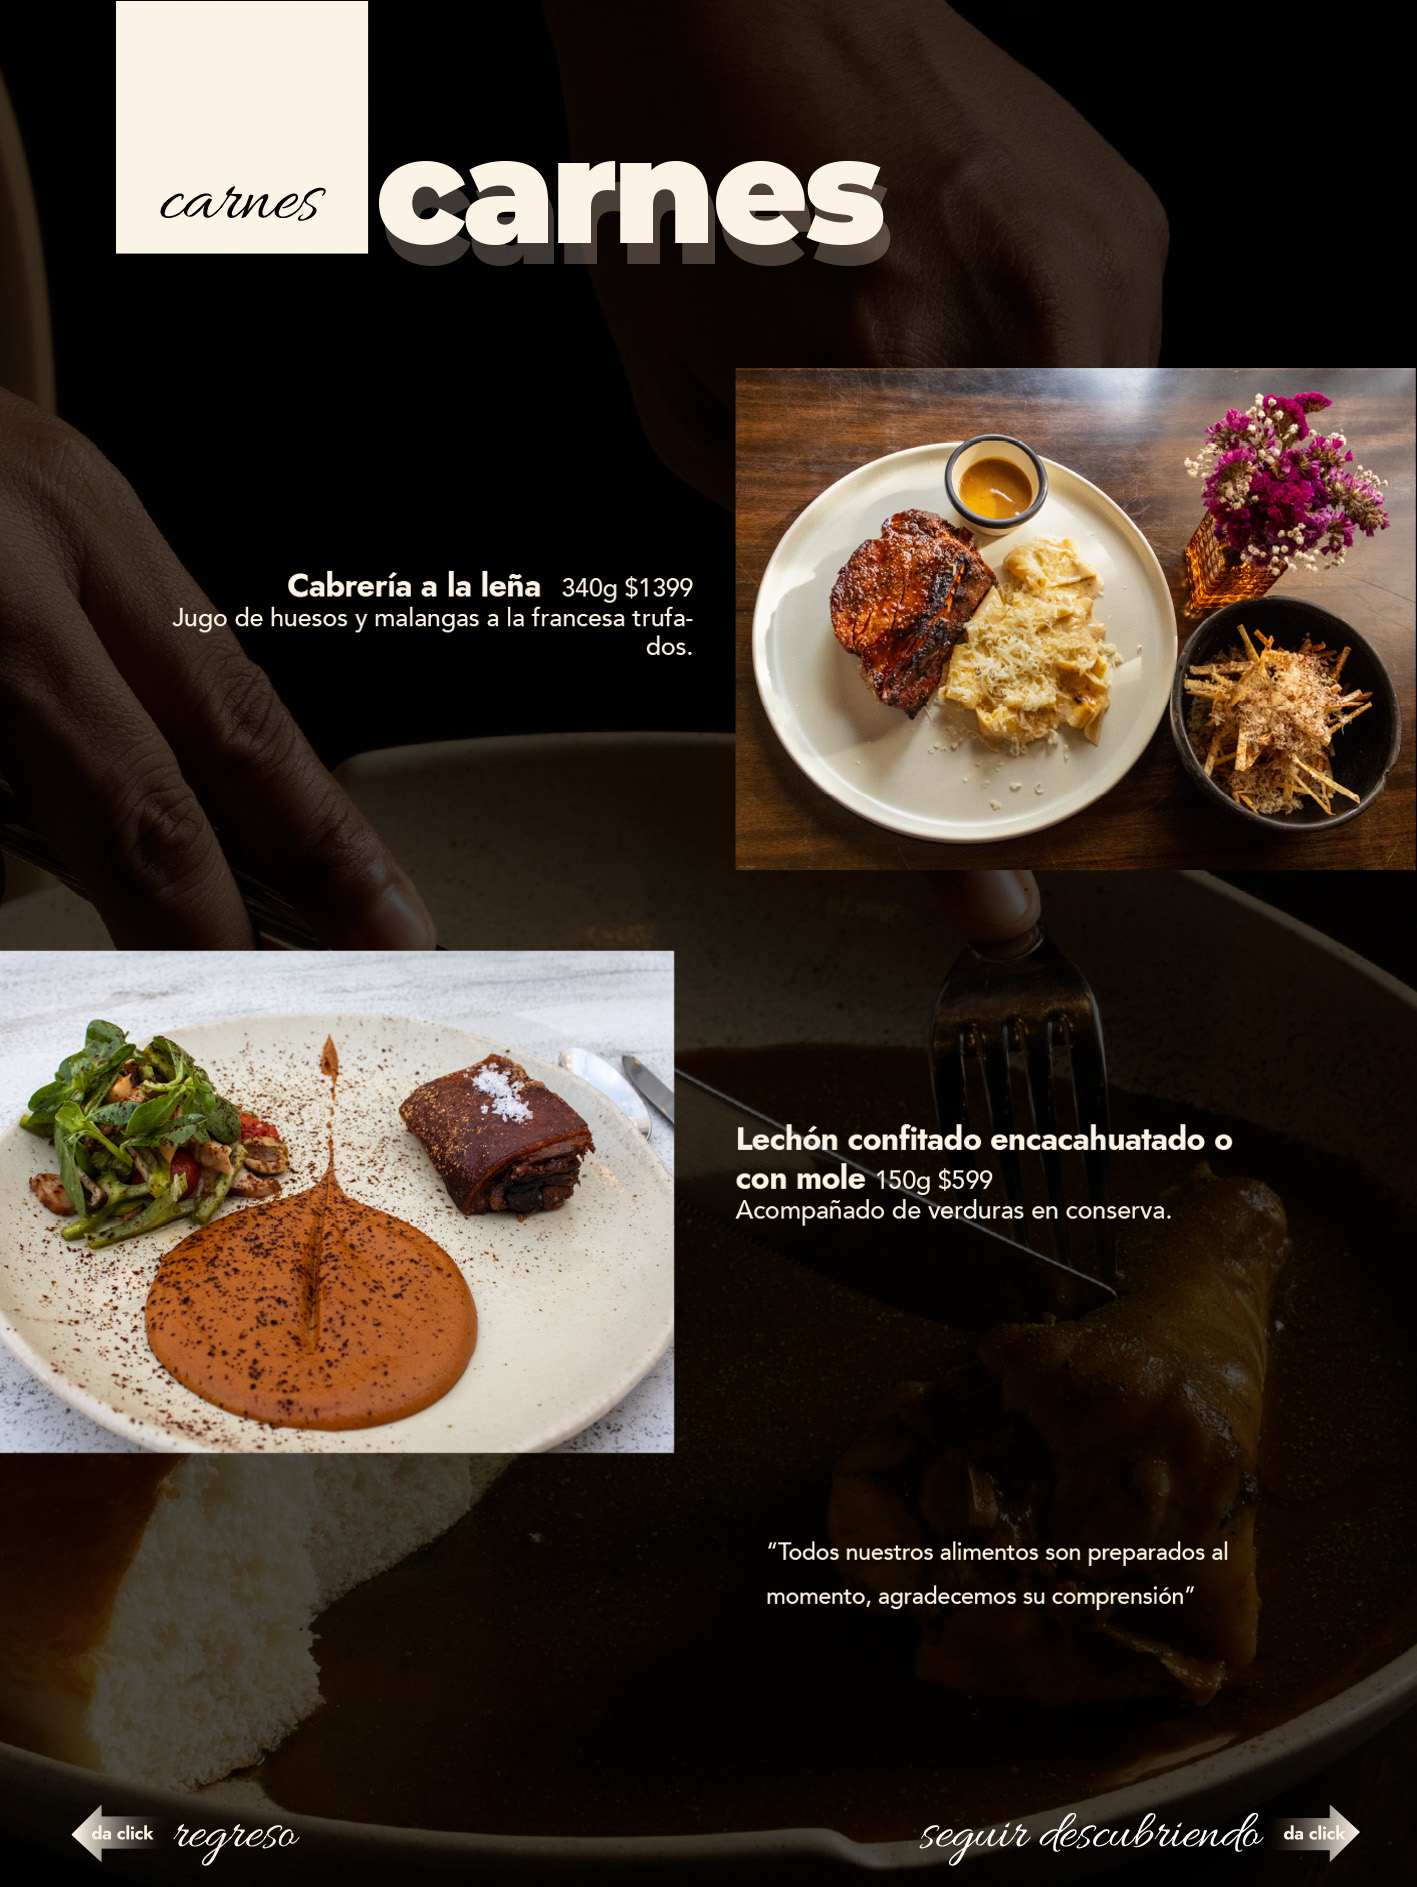
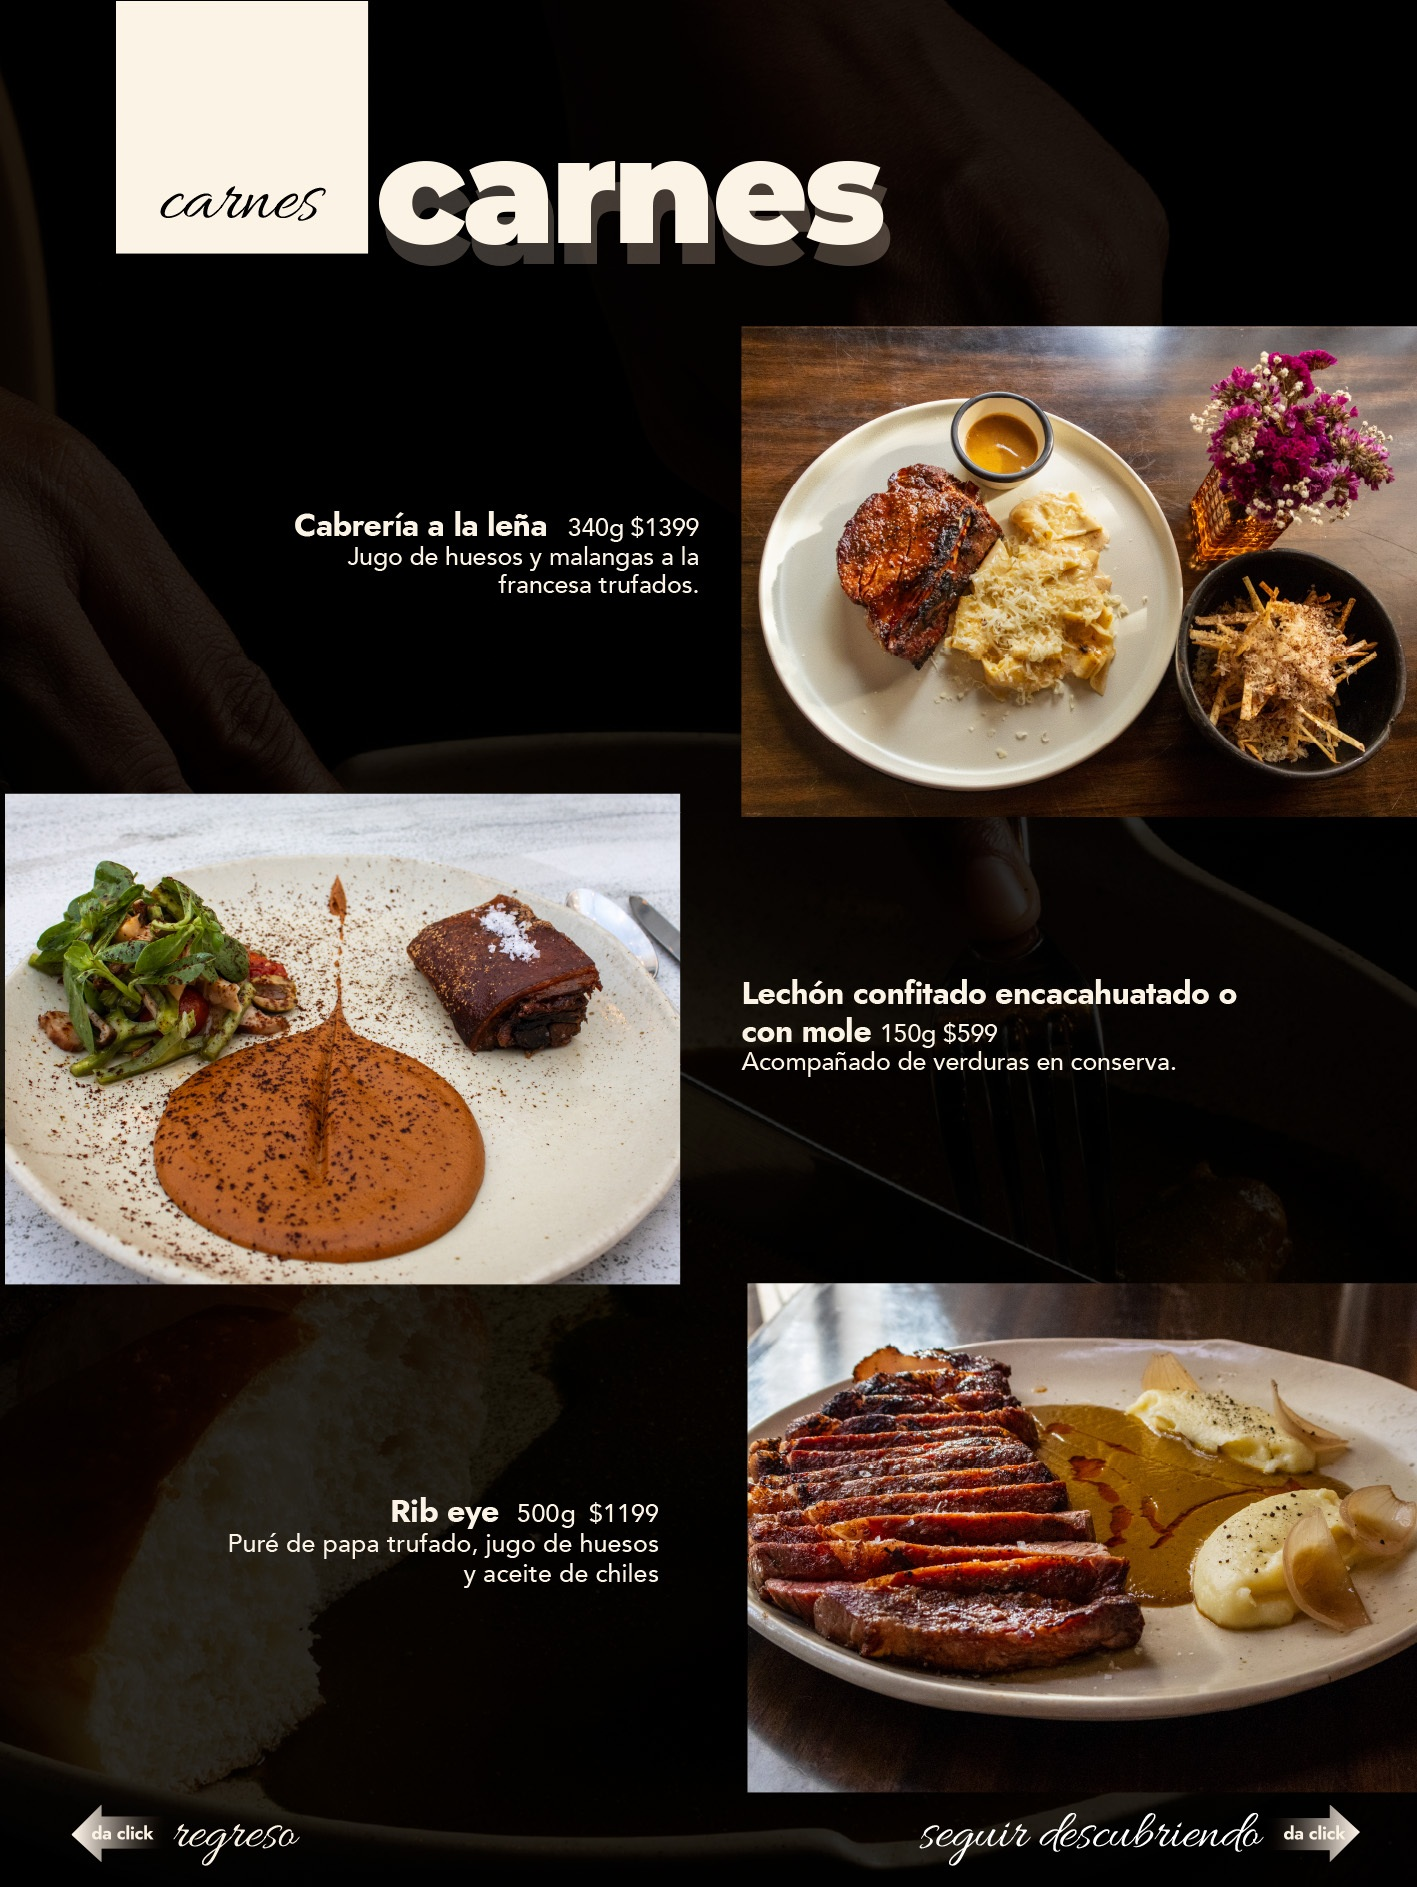
Agregar Menu degustacion

diff --git a/Menu/indexDegustacion.html b/Menu/indexDegustacion.html
@@ -1,0 +1,94 @@
+<!DOCTYPE html>
+<html lang="es">
+<head>
+  <meta charset="UTF-8">
+  <title>Menú Namik</title>
+  <link rel="stylesheet" href="style.css">
+  <script src="https://code.jquery.com/jquery-3.6.0.min.js"></script>
+  <!-- Turn.js desde CDN -->
+  <script src="turn.min.js"></script>
+</head>
+<body>
+  <div id="flipbook">
+    
+    <!-- Página 1: Portada -->
+    <div class="page" id="portada">
+    <img src="imagenes/MenuDegustacion/Degustacion.jpeg" class="full">
+    </div>
+
+  </div>
+
+  <script>
+  function calcSize() {
+    const maxW = window.innerWidth * 0.9;
+    const maxH = window.innerHeight * 0.9;
+    const imgRatio = 1417 / 1887; // proporción de tus imágenes
+
+    let w = maxW;
+    let h = w / imgRatio;
+
+    if (h > maxH) {
+      h = maxH;
+      w = h * imgRatio;
+    }
+
+    return { w, h };
+  }
+
+  $(document).ready(function () {
+    const { w, h } = calcSize();
+
+    $("#flipbook").turn({
+      width: w,
+      height: h,
+      autoCenter: true,
+      display: 'single',
+      gradients: true,
+      acceleration: true,
+      touch: true   // swipe táctil activado
+    });
+
+    // 👉 Detectar clic en el flipbook
+    $("#flipbook").on("click", function(e) {
+      const offset = $(this).offset();
+      const x = e.pageX - offset.left;
+      const width = $(this).width();
+
+      if (x < width / 2) {
+        $("#flipbook").turn("previous");
+      } else {
+        $("#flipbook").turn("next");
+      }
+    });
+
+    // 👉 Detectar swipe desde el centro
+    let startX = 0;
+
+    $("#flipbook").on("touchstart", function(e) {
+      startX = e.originalEvent.touches[0].clientX;
+    });
+
+    $("#flipbook").on("touchend", function(e) {
+      const endX = e.originalEvent.changedTouches[0].clientX;
+      const deltaX = endX - startX;
+
+      if (Math.abs(deltaX) > 50) { // umbral mínimo
+        if (deltaX < 0) {
+          $("#flipbook").turn("next");     // swipe izquierda → siguiente
+        } else {
+          $("#flipbook").turn("previous"); // swipe derecha → anterior
+        }
+      }
+    });
+
+    // 👉 Ajuste al redimensionar pantalla
+    $(window).on("resize", function() {
+      const { w, h } = calcSize();
+      $("#flipbook").turn("size", w, h);
+    });
+  });
+</script>
+
+</body>
+</html>
+
